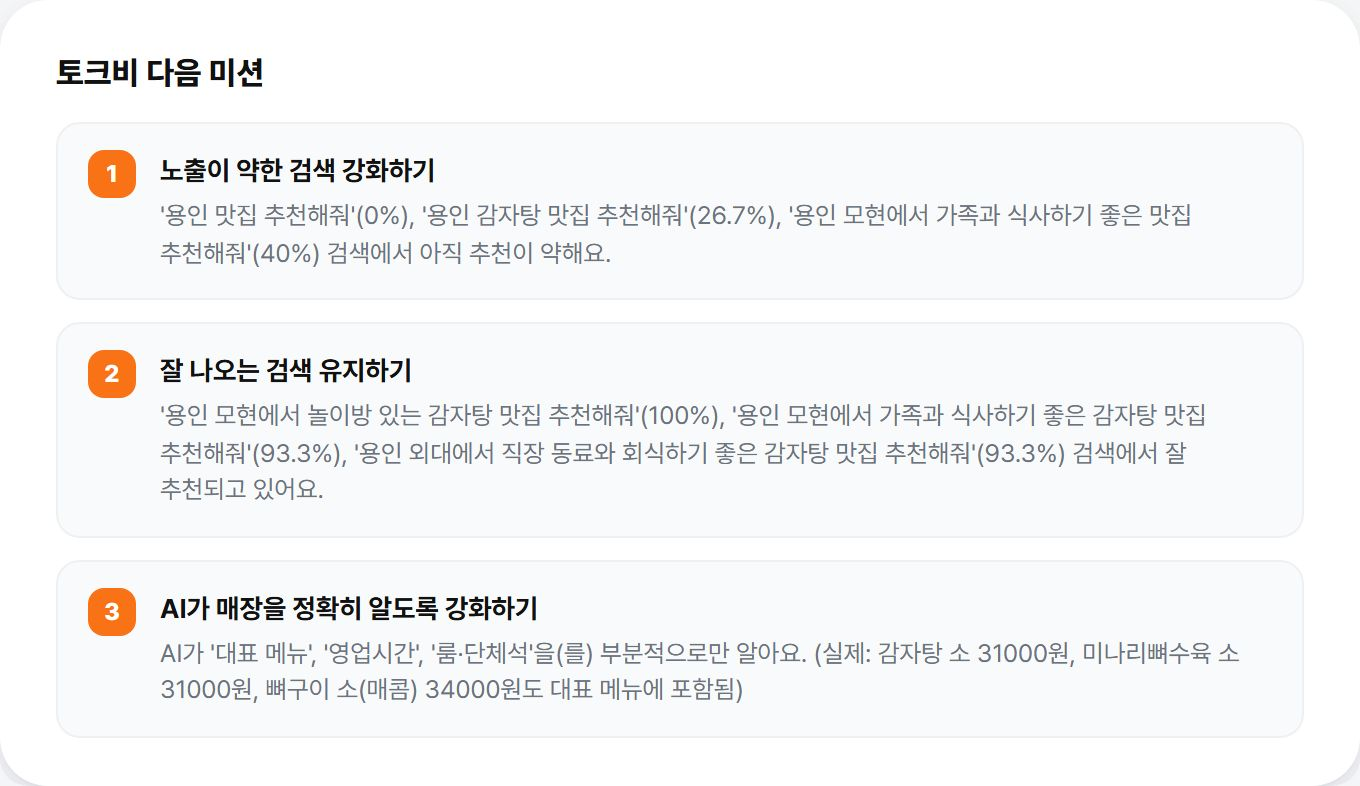
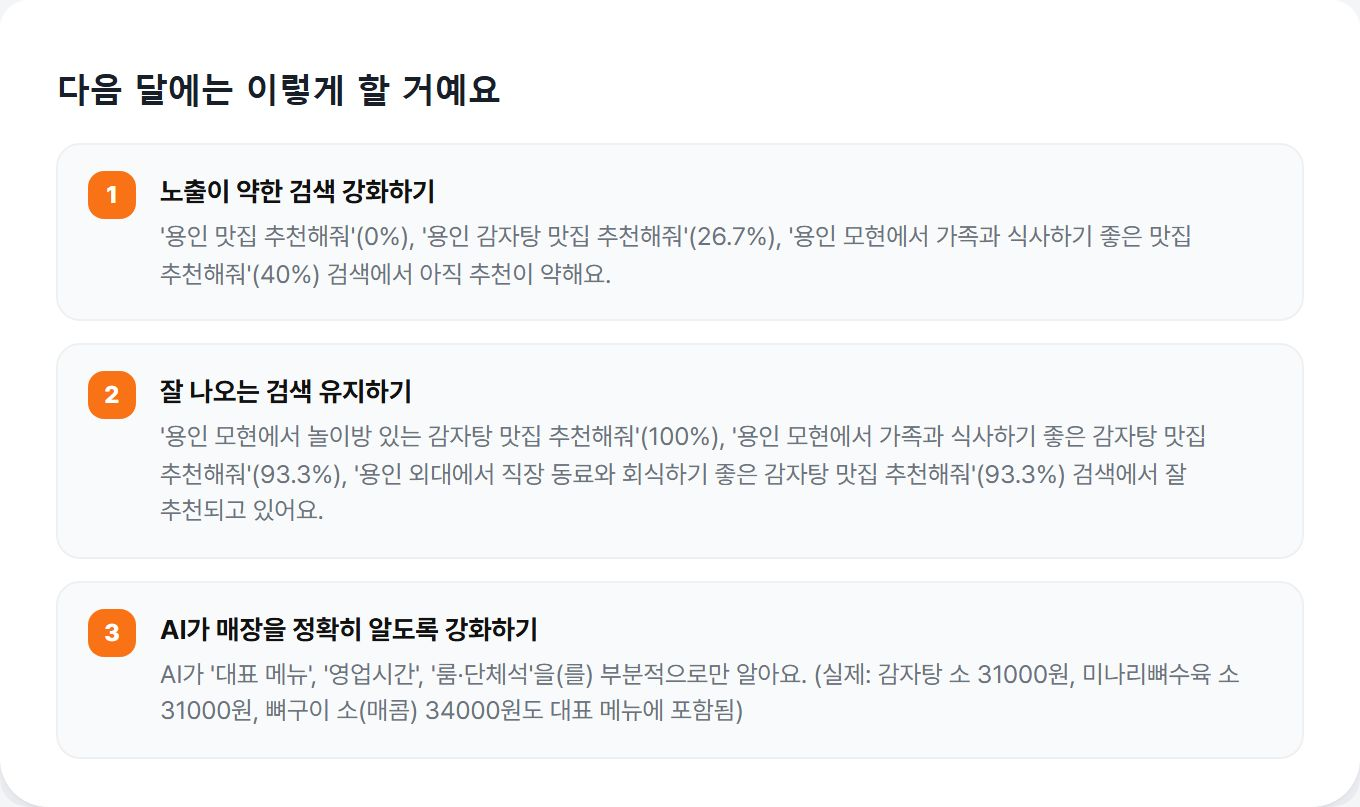
feat(랜딩): 후기 섹션을 한 장씩 넘기는 슬라이드(화살표·1/8)로 줄임 · 리포트 '다음 미션' → '다음 달 계획'(탭)·'다음 달에는 이렇게 할 거예요'(캡처 제목)

diff --git a/index.html b/index.html
@@ -252,6 +252,17 @@ mark{background:#FFE58A;color:#191F28;font-weight:800;border-radius:4px;padding:
 .rv-top{margin:28px 0 0;padding:0}
 .rv-top blockquote{margin:0;font-size:clamp(20px,2.4vw,26px);font-weight:800;line-height:1.55}
 .rv-top figcaption{margin-top:12px;font-size:14px;color:#B0B8C1}
+.rs-wrap{margin-top:28px;min-height:300px}
+.rs{display:grid;grid-template-columns:minmax(0,0.9fr) minmax(0,1.1fr);gap:28px;align-items:center;margin:0}
+.rs[hidden]{display:none}
+.rs .rv-img{margin:0;border-radius:18px}
+.rs-noimg{grid-template-columns:1fr;max-width:820px}
+.rs blockquote{margin:0;font-size:clamp(18px,2.2vw,24px);font-weight:800;line-height:1.55}
+.rs figcaption{margin-top:12px;font-size:14px;color:#B0B8C1}
+.rs-nav{display:flex;align-items:center;gap:14px;margin-top:22px}
+.rs-arr{width:44px;height:44px;border:1px solid rgba(255,255,255,.25);border-radius:50%;background:transparent;color:#fff;font-size:22px;line-height:1;cursor:pointer}
+.rs-arr:hover{background:rgba(255,255,255,.1)}
+.rs-count{font-size:14px;color:#B0B8C1;min-width:44px;text-align:center}
 .rv-img{display:block;width:100%;height:auto;aspect-ratio:16/10;object-fit:cover;border-radius:12px;margin-bottom:14px}
 .rv-top-ph{display:grid;grid-template-columns:minmax(0,0.9fr) minmax(0,1.1fr);gap:28px;align-items:center}
 .rv-top-ph .rv-img{margin:0;border-radius:18px}
@@ -388,7 +399,7 @@ mark{background:#FFE58A;color:#191F28;font-weight:800;border-radius:4px;padding:
 .foot a{display:inline-block;padding:6px 0;text-decoration:underline;text-underline-offset:2px}
 @media (max-width:640px){.float{display:none}}
 @media (max-width:900px){.float-qr{display:none}}
-@media (max-width:900px){.hero,.two,.three,.split{grid-template-columns:1fr !important}.hero{grid-template-areas:"top" "bottom" "fig";row-gap:20px;padding-top:52px}.hero-fig{margin-top:8px}.sc-grid{grid-template-columns:1fr 1fr}.flow{grid-template-columns:1fr}.rv-grid{grid-template-columns:1fr}.rv-top-ph{grid-template-columns:1fr;gap:16px}.cs{width:78vw;max-width:300px}}
+@media (max-width:900px){.hero,.two,.three,.split{grid-template-columns:1fr !important}.hero{grid-template-areas:"top" "bottom" "fig";row-gap:20px;padding-top:52px}.hero-fig{margin-top:8px}.sc-grid{grid-template-columns:1fr 1fr}.flow{grid-template-columns:1fr}.rv-grid{grid-template-columns:1fr}.rs{grid-template-columns:1fr;gap:16px}.cs{width:78vw;max-width:300px}}
 @media (max-width:640px){.nav,.hdr .kbtn{display:none}.hdr-in{height:56px;padding:0 16px}.wrap{padding:0 18px}.sec{padding:60px 0}.lead{font-size:16px}.card{padding:22px;border-radius:18px}.kbtn-lg{width:100%}.sc-grid{grid-template-columns:1fr;gap:10px}.sc{padding:16px 18px}.sc .meta{margin-bottom:8px}.sc-row{margin-top:6px}
 .sticky{display:flex;gap:8px;position:sticky;bottom:0;z-index:6;padding:10px 16px calc(10px + env(safe-area-inset-bottom));background:rgba(255,255,255,.96);border-top:1px solid var(--line);transition:transform .2s}
 .sticky .kbtn{flex:1}.sticky .price{display:inline-flex;align-items:center;justify-content:center;min-height:48px;padding:0 16px;border-radius:14px;border:1px solid var(--line);font-weight:700;font-size:15px;color:var(--ink)}
@@ -551,16 +562,17 @@ fbq('track', 'PageView');
 <div class="wrap">
 <h2 class="h2" style="color: #fff">사장님들이 직접 남긴 후기</h2>
 <p class="lead" style="color: #B0B8C1">남겨 주신 후기 8개를 그대로 옮겼어요.</p>
-<figure class="rv-top rv-top-ph"><img class="rv-img" src="/images/reviews/tamladam.jpg" alt="탐라담 영종도점 매장 사진" width="640" height="400" loading="lazy" decoding="async"><div><blockquote>“지피티에게 저희 동네 고기집이라던가 맛집을 물어보면 항상 다른 경쟁업체만 얘기했었는데, 토크비 이용 후에 지피티에서 추천받고 연락 하셨다고 12명 예약 하시는 분도 생기고 전화 문의도 많이 늘었어요! 종종 지피티 추천 받았다고 얘기해주시는분도 있어서 너무 기분좋아요ㅎㅎ”</blockquote><figcaption>탐라담 영종도점 · 백지혜 사장님</figcaption></div></figure>
-<div class="rv-grid">
-<figure class="rv"><img class="rv-img" src="/images/reviews/insaeng.jpg" alt="인생뼈다귀 본점 매장 사진" width="640" height="400" loading="lazy" decoding="async"><blockquote>“답변률도 좋아지고 바뀌는 시대에 맞게 발빠르게 준비할 수 있는 좋은 시스템인거 같아요 !!발빨라진느낌이라고 해야할까요?!! 앞으로도 기대가 됩니다 !! ㅎㅎㅎ”</blockquote><figcaption>인생뼈다귀 본점 · 이현민 사장님</figcaption></figure>
-<figure class="rv"><img class="rv-img" src="/images/reviews/ilsan-gejang.jpg" alt="일산게장집 매장 사진" width="640" height="400" loading="lazy" decoding="async"><blockquote>“ChatGpt를 활용한 마케팅도 기본적으로 수반되어야 한다 생각됩니다. 맛있는 음식을 만들기만 잘해서는 성공이 어려운 현재의 시대! 토크B가 많은 도움이 되고있습니다^^”</blockquote><figcaption>일산게장집 · 장동식 사장님</figcaption></figure>
-<figure class="rv"><img class="rv-img" src="/images/reviews/budae-inha.jpg" alt="부대찌개대사관 인하대역점 매장 사진" width="640" height="400" loading="lazy" decoding="async"><blockquote>“ChatGPT에서 저희 매장이 두번째로 추천되는 걸 확인했어요. 네이버로 두번째 추천될려면 엄청난 비용이 드는데~~ 토크비 서비스는 저렴한 금액으로 매장 홍보를 가능하게 해 주네요. ChatGPT 검색이 더 활성화 되면 고객 유입이 더 늘어날 것으로 기대됩니다.”</blockquote><figcaption>부대찌개대사관 인하대역점</figcaption></figure>
-<figure class="rv"><img class="rv-img" src="/images/reviews/budae-magok.jpg" alt="부대찌개대사관 마곡직영점 매장 사진" width="640" height="400" loading="lazy" decoding="async"><blockquote>“점차 답변률이 올라가는거 같아 기대가 큽니다ㅎㅎ”</blockquote><figcaption>부대찌개대사관 마곡직영점 · 전선용 대표</figcaption></figure>
-<figure class="rv"><img class="rv-img" src="/images/reviews/hansin.jpg" alt="한신우동 본점 매장 사진" width="640" height="400" loading="lazy" decoding="async"><blockquote>“파일럿을 진행하면서 변화된 수치 및 개선내용이 영업 또는 가맹모집에 어떤 영향을 미쳤는지에 대한 자료 지표를 쉽게 확인했으면 좋겠습니다.”</blockquote><figcaption>한신우동 본점 · 민치호 본부장</figcaption></figure>
-<figure class="rv"><blockquote>“경기가 안 좋아서 매출에 직접적인 효과는 보지 못한 것 같아요. 손님들이 검색을 ai를 통해서 많이 하는지 궁금해요. 맛집은 아직까지는 네이버 위주로 돌아가는지 그 비율에 따라서 기대효과를 가늠할 수 있을거 같아요.”</blockquote><figcaption>오공김밥 일산탄현점 · 조항돈 사장님</figcaption></figure>
-<figure class="rv"><blockquote>“아직 실감이 나지 않아요 ㅎㅎ”</blockquote><figcaption>푸드브리즈 법동점</figcaption></figure>
+<div class="rs-wrap" aria-live="polite">
+<figure class="rs" id="rs0" role="group" aria-roledescription="후기" aria-label="1 / 8"><img class="rv-img" src="/images/reviews/tamladam.jpg" alt="탐라담 영종도점 매장 사진" width="640" height="400" loading="lazy" decoding="async"><div><blockquote>“지피티에게 저희 동네 고기집이라던가 맛집을 물어보면 항상 다른 경쟁업체만 얘기했었는데, 토크비 이용 후에 지피티에서 추천받고 연락 하셨다고 12명 예약 하시는 분도 생기고 전화 문의도 많이 늘었어요! 종종 지피티 추천 받았다고 얘기해주시는분도 있어서 너무 기분좋아요ㅎㅎ”</blockquote><figcaption>탐라담 영종도점 · 백지혜 사장님</figcaption></div></figure>
+<figure class="rs" id="rs1" role="group" aria-roledescription="후기" aria-label="2 / 8" hidden><img class="rv-img" src="/images/reviews/insaeng.jpg" alt="인생뼈다귀 본점 매장 사진" width="640" height="400" loading="lazy" decoding="async"><div><blockquote>“답변률도 좋아지고 바뀌는 시대에 맞게 발빠르게 준비할 수 있는 좋은 시스템인거 같아요 !!발빨라진느낌이라고 해야할까요?!! 앞으로도 기대가 됩니다 !! ㅎㅎㅎ”</blockquote><figcaption>인생뼈다귀 본점 · 이현민 사장님</figcaption></div></figure>
+<figure class="rs" id="rs2" role="group" aria-roledescription="후기" aria-label="3 / 8" hidden><img class="rv-img" src="/images/reviews/ilsan-gejang.jpg" alt="일산게장집 매장 사진" width="640" height="400" loading="lazy" decoding="async"><div><blockquote>“ChatGpt를 활용한 마케팅도 기본적으로 수반되어야 한다 생각됩니다. 맛있는 음식을 만들기만 잘해서는 성공이 어려운 현재의 시대! 토크B가 많은 도움이 되고있습니다^^”</blockquote><figcaption>일산게장집 · 장동식 사장님</figcaption></div></figure>
+<figure class="rs" id="rs3" role="group" aria-roledescription="후기" aria-label="4 / 8" hidden><img class="rv-img" src="/images/reviews/budae-inha.jpg" alt="부대찌개대사관 인하대역점 매장 사진" width="640" height="400" loading="lazy" decoding="async"><div><blockquote>“ChatGPT에서 저희 매장이 두번째로 추천되는 걸 확인했어요. 네이버로 두번째 추천될려면 엄청난 비용이 드는데~~ 토크비 서비스는 저렴한 금액으로 매장 홍보를 가능하게 해 주네요. ChatGPT 검색이 더 활성화 되면 고객 유입이 더 늘어날 것으로 기대됩니다.”</blockquote><figcaption>부대찌개대사관 인하대역점</figcaption></div></figure>
+<figure class="rs" id="rs4" role="group" aria-roledescription="후기" aria-label="5 / 8" hidden><img class="rv-img" src="/images/reviews/budae-magok.jpg" alt="부대찌개대사관 마곡직영점 매장 사진" width="640" height="400" loading="lazy" decoding="async"><div><blockquote>“점차 답변률이 올라가는거 같아 기대가 큽니다ㅎㅎ”</blockquote><figcaption>부대찌개대사관 마곡직영점 · 전선용 대표</figcaption></div></figure>
+<figure class="rs" id="rs5" role="group" aria-roledescription="후기" aria-label="6 / 8" hidden><img class="rv-img" src="/images/reviews/hansin.jpg" alt="한신우동 본점 매장 사진" width="640" height="400" loading="lazy" decoding="async"><div><blockquote>“파일럿을 진행하면서 변화된 수치 및 개선내용이 영업 또는 가맹모집에 어떤 영향을 미쳤는지에 대한 자료 지표를 쉽게 확인했으면 좋겠습니다.”</blockquote><figcaption>한신우동 본점 · 민치호 본부장</figcaption></div></figure>
+<figure class="rs rs-noimg" id="rs6" role="group" aria-roledescription="후기" aria-label="7 / 8" hidden><div><blockquote>“경기가 안 좋아서 매출에 직접적인 효과는 보지 못한 것 같아요. 손님들이 검색을 ai를 통해서 많이 하는지 궁금해요. 맛집은 아직까지는 네이버 위주로 돌아가는지 그 비율에 따라서 기대효과를 가늠할 수 있을거 같아요.”</blockquote><figcaption>오공김밥 일산탄현점 · 조항돈 사장님</figcaption></div></figure>
+<figure class="rs rs-noimg" id="rs7" role="group" aria-roledescription="후기" aria-label="8 / 8" hidden><div><blockquote>“아직 실감이 나지 않아요 ㅎㅎ”</blockquote><figcaption>푸드브리즈 법동점</figcaption></div></figure>
 </div>
+<div class="rs-nav"><button type="button" class="rs-arr" id="rsPrev" aria-label="이전 후기">‹</button><span class="rs-count tnum" id="rsCount">1 / 8</span><button type="button" class="rs-arr" id="rsNext" aria-label="다음 후기">›</button></div>
 </div>
 </section>
 
@@ -607,13 +619,13 @@ fbq('track', 'PageView');
 <div class="wrap">
 <h2 class="h2">매달 이런 리포트를 받아요</h2>
 <p class="lead">인생뼈다귀 본점이 받은 2026년 9월 실제 리포트예요. 다른 가게 이름은 가렸어요.</p>
-<div class="rp-tabs" role="tablist" aria-label="리포트 쪽 고르기"><button type="button" role="tab" id="rt0" aria-controls="rv0" aria-selected="true">핵심 요약</button><button type="button" role="tab" id="rt1" aria-controls="rv1" aria-selected="false">추천률 추이</button><button type="button" role="tab" id="rt2" aria-controls="rv2" aria-selected="false">AI가 소개하는 방식</button><button type="button" role="tab" id="rt3" aria-controls="rv3" aria-selected="false">경쟁 매장 비교</button><button type="button" role="tab" id="rt4" aria-controls="rv4" aria-selected="false">다음 미션</button></div>
+<div class="rp-tabs" role="tablist" aria-label="리포트 쪽 고르기"><button type="button" role="tab" id="rt0" aria-controls="rv0" aria-selected="true">핵심 요약</button><button type="button" role="tab" id="rt1" aria-controls="rv1" aria-selected="false">추천률 추이</button><button type="button" role="tab" id="rt2" aria-controls="rv2" aria-selected="false">AI가 소개하는 방식</button><button type="button" role="tab" id="rt3" aria-controls="rv3" aria-selected="false">경쟁 매장 비교</button><button type="button" role="tab" id="rt4" aria-controls="rv4" aria-selected="false">다음 달 계획</button></div>
 <div class="rp-views">
 <button type="button" class="rp-shot" id="rv0" role="tabpanel" aria-labelledby="rt0" data-src="/images/report/p1.jpg" data-alt="월간 리포트 샘플 · 핵심 요약"><img src="/images/report/p1.jpg" alt="월간 리포트 샘플 · 핵심 요약" width="1360" height="776" loading="lazy" decoding="async"></button>
 <button type="button" class="rp-shot" id="rv1" role="tabpanel" aria-labelledby="rt1" data-src="/images/report/p2.jpg" data-alt="월간 리포트 샘플 · 추천률 추이" hidden><img src="/images/report/p2.jpg" alt="월간 리포트 샘플 · 추천률 추이" width="1360" height="720" loading="lazy" decoding="async"></button>
 <button type="button" class="rp-shot" id="rv2" role="tabpanel" aria-labelledby="rt2" data-src="/images/report/p3.jpg" data-alt="월간 리포트 샘플 · AI가 소개하는 방식" hidden><img src="/images/report/p3.jpg" alt="월간 리포트 샘플 · AI가 소개하는 방식" width="1360" height="1230" loading="lazy" decoding="async"></button>
 <button type="button" class="rp-shot" id="rv3" role="tabpanel" aria-labelledby="rt3" data-src="/images/report/p6.jpg" data-alt="월간 리포트 샘플 · 경쟁 매장 비교" hidden><img src="/images/report/p6.jpg" alt="월간 리포트 샘플 · 경쟁 매장 비교" width="1360" height="548" loading="lazy" decoding="async"></button>
-<button type="button" class="rp-shot" id="rv4" role="tabpanel" aria-labelledby="rt4" data-src="/images/report/p7.jpg" data-alt="월간 리포트 샘플 · 다음 미션" hidden><img src="/images/report/p7.jpg" alt="월간 리포트 샘플 · 다음 미션" width="1360" height="786" loading="lazy" decoding="async"></button>
+<button type="button" class="rp-shot" id="rv4" role="tabpanel" aria-labelledby="rt4" data-src="/images/report/p7.jpg?v=2" data-alt="월간 리포트 샘플 · 다음 달 계획" hidden><img src="/images/report/p7.jpg?v=2" alt="월간 리포트 샘플 · 다음 달 계획" width="1360" height="807" loading="lazy" decoding="async"></button>
 </div>
 </div>
 </section>
@@ -804,6 +816,16 @@ fbq('track', 'PageView');
   tabs.forEach(function(b, k){ b.addEventListener("click", function(){
     tabs.forEach(function(x, j){ x.setAttribute("aria-selected", j === k ? "true" : "false"); document.getElementById("rv" + j).hidden = j !== k; });
   }); });
+})();
+</script>
+<script>
+// 후기 넘김 · 화살표로 한 장씩
+(function(){
+  var sl = document.querySelectorAll(".rs"), cur = 0, cnt = document.getElementById("rsCount");
+  if (!sl.length) return;
+  function show(n){ cur = (n + sl.length) % sl.length; sl.forEach(function(x, k){ x.hidden = k !== cur; }); if (cnt) cnt.textContent = (cur + 1) + " / " + sl.length; }
+  document.getElementById("rsPrev").addEventListener("click", function(){ show(cur - 1); });
+  document.getElementById("rsNext").addEventListener("click", function(){ show(cur + 1); });
 })();
 </script>
 <script src="/track.js" data-home="1" defer></script>

diff --git a/index.template.html b/index.template.html
@@ -252,6 +252,17 @@ mark{background:#FFE58A;color:#191F28;font-weight:800;border-radius:4px;padding:
 .rv-top{margin:28px 0 0;padding:0}
 .rv-top blockquote{margin:0;font-size:clamp(20px,2.4vw,26px);font-weight:800;line-height:1.55}
 .rv-top figcaption{margin-top:12px;font-size:14px;color:#B0B8C1}
+.rs-wrap{margin-top:28px;min-height:300px}
+.rs{display:grid;grid-template-columns:minmax(0,0.9fr) minmax(0,1.1fr);gap:28px;align-items:center;margin:0}
+.rs[hidden]{display:none}
+.rs .rv-img{margin:0;border-radius:18px}
+.rs-noimg{grid-template-columns:1fr;max-width:820px}
+.rs blockquote{margin:0;font-size:clamp(18px,2.2vw,24px);font-weight:800;line-height:1.55}
+.rs figcaption{margin-top:12px;font-size:14px;color:#B0B8C1}
+.rs-nav{display:flex;align-items:center;gap:14px;margin-top:22px}
+.rs-arr{width:44px;height:44px;border:1px solid rgba(255,255,255,.25);border-radius:50%;background:transparent;color:#fff;font-size:22px;line-height:1;cursor:pointer}
+.rs-arr:hover{background:rgba(255,255,255,.1)}
+.rs-count{font-size:14px;color:#B0B8C1;min-width:44px;text-align:center}
 .rv-img{display:block;width:100%;height:auto;aspect-ratio:16/10;object-fit:cover;border-radius:12px;margin-bottom:14px}
 .rv-top-ph{display:grid;grid-template-columns:minmax(0,0.9fr) minmax(0,1.1fr);gap:28px;align-items:center}
 .rv-top-ph .rv-img{margin:0;border-radius:18px}
@@ -388,7 +399,7 @@ mark{background:#FFE58A;color:#191F28;font-weight:800;border-radius:4px;padding:
 .foot a{display:inline-block;padding:6px 0;text-decoration:underline;text-underline-offset:2px}
 @media (max-width:640px){.float{display:none}}
 @media (max-width:900px){.float-qr{display:none}}
-@media (max-width:900px){.hero,.two,.three,.split{grid-template-columns:1fr !important}.hero{grid-template-areas:"top" "bottom" "fig";row-gap:20px;padding-top:52px}.hero-fig{margin-top:8px}.sc-grid{grid-template-columns:1fr 1fr}.flow{grid-template-columns:1fr}.rv-grid{grid-template-columns:1fr}.rv-top-ph{grid-template-columns:1fr;gap:16px}.cs{width:78vw;max-width:300px}}
+@media (max-width:900px){.hero,.two,.three,.split{grid-template-columns:1fr !important}.hero{grid-template-areas:"top" "bottom" "fig";row-gap:20px;padding-top:52px}.hero-fig{margin-top:8px}.sc-grid{grid-template-columns:1fr 1fr}.flow{grid-template-columns:1fr}.rv-grid{grid-template-columns:1fr}.rs{grid-template-columns:1fr;gap:16px}.cs{width:78vw;max-width:300px}}
 @media (max-width:640px){.nav,.hdr .kbtn{display:none}.hdr-in{height:56px;padding:0 16px}.wrap{padding:0 18px}.sec{padding:60px 0}.lead{font-size:16px}.card{padding:22px;border-radius:18px}.kbtn-lg{width:100%}.sc-grid{grid-template-columns:1fr;gap:10px}.sc{padding:16px 18px}.sc .meta{margin-bottom:8px}.sc-row{margin-top:6px}
 .sticky{display:flex;gap:8px;position:sticky;bottom:0;z-index:6;padding:10px 16px calc(10px + env(safe-area-inset-bottom));background:rgba(255,255,255,.96);border-top:1px solid var(--line);transition:transform .2s}
 .sticky .kbtn{flex:1}.sticky .price{display:inline-flex;align-items:center;justify-content:center;min-height:48px;padding:0 16px;border-radius:14px;border:1px solid var(--line);font-weight:700;font-size:15px;color:var(--ink)}
@@ -551,16 +562,17 @@ fbq('track', 'PageView');
 <div class="wrap">
 <h2 class="h2" style="color: #fff">사장님들이 직접 남긴 후기</h2>
 <p class="lead" style="color: #B0B8C1">남겨 주신 후기 8개를 그대로 옮겼어요.</p>
-<figure class="rv-top rv-top-ph"><img class="rv-img" src="/images/reviews/tamladam.jpg" alt="탐라담 영종도점 매장 사진" width="640" height="400" loading="lazy" decoding="async"><div><blockquote>“지피티에게 저희 동네 고기집이라던가 맛집을 물어보면 항상 다른 경쟁업체만 얘기했었는데, 토크비 이용 후에 지피티에서 추천받고 연락 하셨다고 12명 예약 하시는 분도 생기고 전화 문의도 많이 늘었어요! 종종 지피티 추천 받았다고 얘기해주시는분도 있어서 너무 기분좋아요ㅎㅎ”</blockquote><figcaption>탐라담 영종도점 · 백지혜 사장님</figcaption></div></figure>
-<div class="rv-grid">
-<figure class="rv"><img class="rv-img" src="/images/reviews/insaeng.jpg" alt="인생뼈다귀 본점 매장 사진" width="640" height="400" loading="lazy" decoding="async"><blockquote>“답변률도 좋아지고 바뀌는 시대에 맞게 발빠르게 준비할 수 있는 좋은 시스템인거 같아요 !!발빨라진느낌이라고 해야할까요?!! 앞으로도 기대가 됩니다 !! ㅎㅎㅎ”</blockquote><figcaption>인생뼈다귀 본점 · 이현민 사장님</figcaption></figure>
-<figure class="rv"><img class="rv-img" src="/images/reviews/ilsan-gejang.jpg" alt="일산게장집 매장 사진" width="640" height="400" loading="lazy" decoding="async"><blockquote>“ChatGpt를 활용한 마케팅도 기본적으로 수반되어야 한다 생각됩니다. 맛있는 음식을 만들기만 잘해서는 성공이 어려운 현재의 시대! 토크B가 많은 도움이 되고있습니다^^”</blockquote><figcaption>일산게장집 · 장동식 사장님</figcaption></figure>
-<figure class="rv"><img class="rv-img" src="/images/reviews/budae-inha.jpg" alt="부대찌개대사관 인하대역점 매장 사진" width="640" height="400" loading="lazy" decoding="async"><blockquote>“ChatGPT에서 저희 매장이 두번째로 추천되는 걸 확인했어요. 네이버로 두번째 추천될려면 엄청난 비용이 드는데~~ 토크비 서비스는 저렴한 금액으로 매장 홍보를 가능하게 해 주네요. ChatGPT 검색이 더 활성화 되면 고객 유입이 더 늘어날 것으로 기대됩니다.”</blockquote><figcaption>부대찌개대사관 인하대역점</figcaption></figure>
-<figure class="rv"><img class="rv-img" src="/images/reviews/budae-magok.jpg" alt="부대찌개대사관 마곡직영점 매장 사진" width="640" height="400" loading="lazy" decoding="async"><blockquote>“점차 답변률이 올라가는거 같아 기대가 큽니다ㅎㅎ”</blockquote><figcaption>부대찌개대사관 마곡직영점 · 전선용 대표</figcaption></figure>
-<figure class="rv"><img class="rv-img" src="/images/reviews/hansin.jpg" alt="한신우동 본점 매장 사진" width="640" height="400" loading="lazy" decoding="async"><blockquote>“파일럿을 진행하면서 변화된 수치 및 개선내용이 영업 또는 가맹모집에 어떤 영향을 미쳤는지에 대한 자료 지표를 쉽게 확인했으면 좋겠습니다.”</blockquote><figcaption>한신우동 본점 · 민치호 본부장</figcaption></figure>
-<figure class="rv"><blockquote>“경기가 안 좋아서 매출에 직접적인 효과는 보지 못한 것 같아요. 손님들이 검색을 ai를 통해서 많이 하는지 궁금해요. 맛집은 아직까지는 네이버 위주로 돌아가는지 그 비율에 따라서 기대효과를 가늠할 수 있을거 같아요.”</blockquote><figcaption>오공김밥 일산탄현점 · 조항돈 사장님</figcaption></figure>
-<figure class="rv"><blockquote>“아직 실감이 나지 않아요 ㅎㅎ”</blockquote><figcaption>푸드브리즈 법동점</figcaption></figure>
+<div class="rs-wrap" aria-live="polite">
+<figure class="rs" id="rs0" role="group" aria-roledescription="후기" aria-label="1 / 8"><img class="rv-img" src="/images/reviews/tamladam.jpg" alt="탐라담 영종도점 매장 사진" width="640" height="400" loading="lazy" decoding="async"><div><blockquote>“지피티에게 저희 동네 고기집이라던가 맛집을 물어보면 항상 다른 경쟁업체만 얘기했었는데, 토크비 이용 후에 지피티에서 추천받고 연락 하셨다고 12명 예약 하시는 분도 생기고 전화 문의도 많이 늘었어요! 종종 지피티 추천 받았다고 얘기해주시는분도 있어서 너무 기분좋아요ㅎㅎ”</blockquote><figcaption>탐라담 영종도점 · 백지혜 사장님</figcaption></div></figure>
+<figure class="rs" id="rs1" role="group" aria-roledescription="후기" aria-label="2 / 8" hidden><img class="rv-img" src="/images/reviews/insaeng.jpg" alt="인생뼈다귀 본점 매장 사진" width="640" height="400" loading="lazy" decoding="async"><div><blockquote>“답변률도 좋아지고 바뀌는 시대에 맞게 발빠르게 준비할 수 있는 좋은 시스템인거 같아요 !!발빨라진느낌이라고 해야할까요?!! 앞으로도 기대가 됩니다 !! ㅎㅎㅎ”</blockquote><figcaption>인생뼈다귀 본점 · 이현민 사장님</figcaption></div></figure>
+<figure class="rs" id="rs2" role="group" aria-roledescription="후기" aria-label="3 / 8" hidden><img class="rv-img" src="/images/reviews/ilsan-gejang.jpg" alt="일산게장집 매장 사진" width="640" height="400" loading="lazy" decoding="async"><div><blockquote>“ChatGpt를 활용한 마케팅도 기본적으로 수반되어야 한다 생각됩니다. 맛있는 음식을 만들기만 잘해서는 성공이 어려운 현재의 시대! 토크B가 많은 도움이 되고있습니다^^”</blockquote><figcaption>일산게장집 · 장동식 사장님</figcaption></div></figure>
+<figure class="rs" id="rs3" role="group" aria-roledescription="후기" aria-label="4 / 8" hidden><img class="rv-img" src="/images/reviews/budae-inha.jpg" alt="부대찌개대사관 인하대역점 매장 사진" width="640" height="400" loading="lazy" decoding="async"><div><blockquote>“ChatGPT에서 저희 매장이 두번째로 추천되는 걸 확인했어요. 네이버로 두번째 추천될려면 엄청난 비용이 드는데~~ 토크비 서비스는 저렴한 금액으로 매장 홍보를 가능하게 해 주네요. ChatGPT 검색이 더 활성화 되면 고객 유입이 더 늘어날 것으로 기대됩니다.”</blockquote><figcaption>부대찌개대사관 인하대역점</figcaption></div></figure>
+<figure class="rs" id="rs4" role="group" aria-roledescription="후기" aria-label="5 / 8" hidden><img class="rv-img" src="/images/reviews/budae-magok.jpg" alt="부대찌개대사관 마곡직영점 매장 사진" width="640" height="400" loading="lazy" decoding="async"><div><blockquote>“점차 답변률이 올라가는거 같아 기대가 큽니다ㅎㅎ”</blockquote><figcaption>부대찌개대사관 마곡직영점 · 전선용 대표</figcaption></div></figure>
+<figure class="rs" id="rs5" role="group" aria-roledescription="후기" aria-label="6 / 8" hidden><img class="rv-img" src="/images/reviews/hansin.jpg" alt="한신우동 본점 매장 사진" width="640" height="400" loading="lazy" decoding="async"><div><blockquote>“파일럿을 진행하면서 변화된 수치 및 개선내용이 영업 또는 가맹모집에 어떤 영향을 미쳤는지에 대한 자료 지표를 쉽게 확인했으면 좋겠습니다.”</blockquote><figcaption>한신우동 본점 · 민치호 본부장</figcaption></div></figure>
+<figure class="rs rs-noimg" id="rs6" role="group" aria-roledescription="후기" aria-label="7 / 8" hidden><div><blockquote>“경기가 안 좋아서 매출에 직접적인 효과는 보지 못한 것 같아요. 손님들이 검색을 ai를 통해서 많이 하는지 궁금해요. 맛집은 아직까지는 네이버 위주로 돌아가는지 그 비율에 따라서 기대효과를 가늠할 수 있을거 같아요.”</blockquote><figcaption>오공김밥 일산탄현점 · 조항돈 사장님</figcaption></div></figure>
+<figure class="rs rs-noimg" id="rs7" role="group" aria-roledescription="후기" aria-label="8 / 8" hidden><div><blockquote>“아직 실감이 나지 않아요 ㅎㅎ”</blockquote><figcaption>푸드브리즈 법동점</figcaption></div></figure>
 </div>
+<div class="rs-nav"><button type="button" class="rs-arr" id="rsPrev" aria-label="이전 후기">‹</button><span class="rs-count tnum" id="rsCount">1 / 8</span><button type="button" class="rs-arr" id="rsNext" aria-label="다음 후기">›</button></div>
 </div>
 </section>
 
@@ -607,13 +619,13 @@ fbq('track', 'PageView');
 <div class="wrap">
 <h2 class="h2">매달 이런 리포트를 받아요</h2>
 <p class="lead">인생뼈다귀 본점이 받은 2026년 9월 실제 리포트예요. 다른 가게 이름은 가렸어요.</p>
-<div class="rp-tabs" role="tablist" aria-label="리포트 쪽 고르기"><button type="button" role="tab" id="rt0" aria-controls="rv0" aria-selected="true">핵심 요약</button><button type="button" role="tab" id="rt1" aria-controls="rv1" aria-selected="false">추천률 추이</button><button type="button" role="tab" id="rt2" aria-controls="rv2" aria-selected="false">AI가 소개하는 방식</button><button type="button" role="tab" id="rt3" aria-controls="rv3" aria-selected="false">경쟁 매장 비교</button><button type="button" role="tab" id="rt4" aria-controls="rv4" aria-selected="false">다음 미션</button></div>
+<div class="rp-tabs" role="tablist" aria-label="리포트 쪽 고르기"><button type="button" role="tab" id="rt0" aria-controls="rv0" aria-selected="true">핵심 요약</button><button type="button" role="tab" id="rt1" aria-controls="rv1" aria-selected="false">추천률 추이</button><button type="button" role="tab" id="rt2" aria-controls="rv2" aria-selected="false">AI가 소개하는 방식</button><button type="button" role="tab" id="rt3" aria-controls="rv3" aria-selected="false">경쟁 매장 비교</button><button type="button" role="tab" id="rt4" aria-controls="rv4" aria-selected="false">다음 달 계획</button></div>
 <div class="rp-views">
 <button type="button" class="rp-shot" id="rv0" role="tabpanel" aria-labelledby="rt0" data-src="/images/report/p1.jpg" data-alt="월간 리포트 샘플 · 핵심 요약"><img src="/images/report/p1.jpg" alt="월간 리포트 샘플 · 핵심 요약" width="1360" height="776" loading="lazy" decoding="async"></button>
 <button type="button" class="rp-shot" id="rv1" role="tabpanel" aria-labelledby="rt1" data-src="/images/report/p2.jpg" data-alt="월간 리포트 샘플 · 추천률 추이" hidden><img src="/images/report/p2.jpg" alt="월간 리포트 샘플 · 추천률 추이" width="1360" height="720" loading="lazy" decoding="async"></button>
 <button type="button" class="rp-shot" id="rv2" role="tabpanel" aria-labelledby="rt2" data-src="/images/report/p3.jpg" data-alt="월간 리포트 샘플 · AI가 소개하는 방식" hidden><img src="/images/report/p3.jpg" alt="월간 리포트 샘플 · AI가 소개하는 방식" width="1360" height="1230" loading="lazy" decoding="async"></button>
 <button type="button" class="rp-shot" id="rv3" role="tabpanel" aria-labelledby="rt3" data-src="/images/report/p6.jpg" data-alt="월간 리포트 샘플 · 경쟁 매장 비교" hidden><img src="/images/report/p6.jpg" alt="월간 리포트 샘플 · 경쟁 매장 비교" width="1360" height="548" loading="lazy" decoding="async"></button>
-<button type="button" class="rp-shot" id="rv4" role="tabpanel" aria-labelledby="rt4" data-src="/images/report/p7.jpg" data-alt="월간 리포트 샘플 · 다음 미션" hidden><img src="/images/report/p7.jpg" alt="월간 리포트 샘플 · 다음 미션" width="1360" height="786" loading="lazy" decoding="async"></button>
+<button type="button" class="rp-shot" id="rv4" role="tabpanel" aria-labelledby="rt4" data-src="/images/report/p7.jpg?v=2" data-alt="월간 리포트 샘플 · 다음 달 계획" hidden><img src="/images/report/p7.jpg?v=2" alt="월간 리포트 샘플 · 다음 달 계획" width="1360" height="807" loading="lazy" decoding="async"></button>
 </div>
 </div>
 </section>
@@ -804,6 +816,16 @@ fbq('track', 'PageView');
   tabs.forEach(function(b, k){ b.addEventListener("click", function(){
     tabs.forEach(function(x, j){ x.setAttribute("aria-selected", j === k ? "true" : "false"); document.getElementById("rv" + j).hidden = j !== k; });
   }); });
+})();
+</script>
+<script>
+// 후기 넘김 · 화살표로 한 장씩
+(function(){
+  var sl = document.querySelectorAll(".rs"), cur = 0, cnt = document.getElementById("rsCount");
+  if (!sl.length) return;
+  function show(n){ cur = (n + sl.length) % sl.length; sl.forEach(function(x, k){ x.hidden = k !== cur; }); if (cnt) cnt.textContent = (cur + 1) + " / " + sl.length; }
+  document.getElementById("rsPrev").addEventListener("click", function(){ show(cur - 1); });
+  document.getElementById("rsNext").addEventListener("click", function(){ show(cur + 1); });
 })();
 </script>
 <script src="/track.js" data-home="1" defer></script>

diff --git a/gpt-plan/index.html b/gpt-plan/index.html
@@ -325,6 +325,17 @@ mark{background:#FFE58A;color:#191F28;font-weight:800;border-radius:4px;padding:
 .rv-top{margin:28px 0 0;padding:0}
 .rv-top blockquote{margin:0;font-size:clamp(20px,2.4vw,26px);font-weight:800;line-height:1.55}
 .rv-top figcaption{margin-top:12px;font-size:14px;color:#B0B8C1}
+.rs-wrap{margin-top:28px;min-height:300px}
+.rs{display:grid;grid-template-columns:minmax(0,0.9fr) minmax(0,1.1fr);gap:28px;align-items:center;margin:0}
+.rs[hidden]{display:none}
+.rs .rv-img{margin:0;border-radius:18px}
+.rs-noimg{grid-template-columns:1fr;max-width:820px}
+.rs blockquote{margin:0;font-size:clamp(18px,2.2vw,24px);font-weight:800;line-height:1.55}
+.rs figcaption{margin-top:12px;font-size:14px;color:#B0B8C1}
+.rs-nav{display:flex;align-items:center;gap:14px;margin-top:22px}
+.rs-arr{width:44px;height:44px;border:1px solid rgba(255,255,255,.25);border-radius:50%;background:transparent;color:#fff;font-size:22px;line-height:1;cursor:pointer}
+.rs-arr:hover{background:rgba(255,255,255,.1)}
+.rs-count{font-size:14px;color:#B0B8C1;min-width:44px;text-align:center}
 .rv-img{display:block;width:100%;height:auto;aspect-ratio:16/10;object-fit:cover;border-radius:12px;margin-bottom:14px}
 .rv-top-ph{display:grid;grid-template-columns:minmax(0,0.9fr) minmax(0,1.1fr);gap:28px;align-items:center}
 .rv-top-ph .rv-img{margin:0;border-radius:18px}
@@ -461,7 +472,7 @@ mark{background:#FFE58A;color:#191F28;font-weight:800;border-radius:4px;padding:
 .foot a{display:inline-block;padding:6px 0;text-decoration:underline;text-underline-offset:2px}
 @media (max-width:640px){.float{display:none}}
 @media (max-width:900px){.float-qr{display:none}}
-@media (max-width:900px){.hero,.two,.three,.split{grid-template-columns:1fr !important}.hero{grid-template-areas:"top" "bottom" "fig";row-gap:20px;padding-top:52px}.hero-fig{margin-top:8px}.sc-grid{grid-template-columns:1fr 1fr}.flow{grid-template-columns:1fr}.rv-grid{grid-template-columns:1fr}.rv-top-ph{grid-template-columns:1fr;gap:16px}.cs{width:78vw;max-width:300px}}
+@media (max-width:900px){.hero,.two,.three,.split{grid-template-columns:1fr !important}.hero{grid-template-areas:"top" "bottom" "fig";row-gap:20px;padding-top:52px}.hero-fig{margin-top:8px}.sc-grid{grid-template-columns:1fr 1fr}.flow{grid-template-columns:1fr}.rv-grid{grid-template-columns:1fr}.rs{grid-template-columns:1fr;gap:16px}.cs{width:78vw;max-width:300px}}
 @media (max-width:640px){.nav,.hdr .kbtn{display:none}.hdr-in{height:56px;padding:0 16px}.wrap{padding:0 18px}.sec{padding:60px 0}.lead{font-size:16px}.card{padding:22px;border-radius:18px}.kbtn-lg{width:100%}.sc-grid{grid-template-columns:1fr;gap:10px}.sc{padding:16px 18px}.sc .meta{margin-bottom:8px}.sc-row{margin-top:6px}
 .sticky{display:flex;gap:8px;position:sticky;bottom:0;z-index:6;padding:10px 16px calc(10px + env(safe-area-inset-bottom));background:rgba(255,255,255,.96);border-top:1px solid var(--line);transition:transform .2s}
 .sticky .kbtn{flex:1}.sticky .price{display:inline-flex;align-items:center;justify-content:center;min-height:48px;padding:0 16px;border-radius:14px;border:1px solid var(--line);font-weight:700;font-size:15px;color:var(--ink)}
@@ -577,13 +588,13 @@ fbq('track', 'PageView');
 <div class="wrap">
 <h2 class="h2">매달 이런 리포트를 받아요</h2>
 <p class="lead">인생뼈다귀 본점이 받은 2026년 9월 실제 리포트예요. 다른 가게 이름은 가렸어요.</p>
-<div class="rp-tabs" role="tablist" aria-label="리포트 쪽 고르기"><button type="button" role="tab" id="rt0" aria-controls="rv0" aria-selected="true">핵심 요약</button><button type="button" role="tab" id="rt1" aria-controls="rv1" aria-selected="false">추천률 추이</button><button type="button" role="tab" id="rt2" aria-controls="rv2" aria-selected="false">AI가 소개하는 방식</button><button type="button" role="tab" id="rt3" aria-controls="rv3" aria-selected="false">경쟁 매장 비교</button><button type="button" role="tab" id="rt4" aria-controls="rv4" aria-selected="false">다음 미션</button></div>
+<div class="rp-tabs" role="tablist" aria-label="리포트 쪽 고르기"><button type="button" role="tab" id="rt0" aria-controls="rv0" aria-selected="true">핵심 요약</button><button type="button" role="tab" id="rt1" aria-controls="rv1" aria-selected="false">추천률 추이</button><button type="button" role="tab" id="rt2" aria-controls="rv2" aria-selected="false">AI가 소개하는 방식</button><button type="button" role="tab" id="rt3" aria-controls="rv3" aria-selected="false">경쟁 매장 비교</button><button type="button" role="tab" id="rt4" aria-controls="rv4" aria-selected="false">다음 달 계획</button></div>
 <div class="rp-views">
 <button type="button" class="rp-shot" id="rv0" role="tabpanel" aria-labelledby="rt0" data-src="/images/report/p1.jpg"><img src="/images/report/p1.jpg" alt="월간 리포트 샘플 · 핵심 요약" width="1360" height="776" loading="lazy" decoding="async"></button>
 <button type="button" class="rp-shot" id="rv1" role="tabpanel" aria-labelledby="rt1" data-src="/images/report/p2.jpg" hidden><img src="/images/report/p2.jpg" alt="월간 리포트 샘플 · 추천률 추이" width="1360" height="720" loading="lazy" decoding="async"></button>
 <button type="button" class="rp-shot" id="rv2" role="tabpanel" aria-labelledby="rt2" data-src="/images/report/p3.jpg" hidden><img src="/images/report/p3.jpg" alt="월간 리포트 샘플 · AI가 소개하는 방식" width="1360" height="1230" loading="lazy" decoding="async"></button>
 <button type="button" class="rp-shot" id="rv3" role="tabpanel" aria-labelledby="rt3" data-src="/images/report/p6.jpg" hidden><img src="/images/report/p6.jpg" alt="월간 리포트 샘플 · 경쟁 매장 비교" width="1360" height="548" loading="lazy" decoding="async"></button>
-<button type="button" class="rp-shot" id="rv4" role="tabpanel" aria-labelledby="rt4" data-src="/images/report/p7.jpg" hidden><img src="/images/report/p7.jpg" alt="월간 리포트 샘플 · 다음 미션" width="1360" height="786" loading="lazy" decoding="async"></button>
+<button type="button" class="rp-shot" id="rv4" role="tabpanel" aria-labelledby="rt4" data-src="/images/report/p7.jpg?v=2" hidden><img src="/images/report/p7.jpg?v=2" alt="월간 리포트 샘플 · 다음 달 계획" width="1360" height="807" loading="lazy" decoding="async"></button>
 </div>
 </div>
 <div class="wrap see" style="margin-top: 56px">

diff --git a/gpt-plan.template.html b/gpt-plan.template.html
@@ -379,13 +379,13 @@ fbq('track', 'PageView');
 <div class="wrap">
 <h2 class="h2">매달 이런 리포트를 받아요</h2>
 <p class="lead">인생뼈다귀 본점이 받은 2026년 9월 실제 리포트예요. 다른 가게 이름은 가렸어요.</p>
-<div class="rp-tabs" role="tablist" aria-label="리포트 쪽 고르기"><button type="button" role="tab" id="rt0" aria-controls="rv0" aria-selected="true">핵심 요약</button><button type="button" role="tab" id="rt1" aria-controls="rv1" aria-selected="false">추천률 추이</button><button type="button" role="tab" id="rt2" aria-controls="rv2" aria-selected="false">AI가 소개하는 방식</button><button type="button" role="tab" id="rt3" aria-controls="rv3" aria-selected="false">경쟁 매장 비교</button><button type="button" role="tab" id="rt4" aria-controls="rv4" aria-selected="false">다음 미션</button></div>
+<div class="rp-tabs" role="tablist" aria-label="리포트 쪽 고르기"><button type="button" role="tab" id="rt0" aria-controls="rv0" aria-selected="true">핵심 요약</button><button type="button" role="tab" id="rt1" aria-controls="rv1" aria-selected="false">추천률 추이</button><button type="button" role="tab" id="rt2" aria-controls="rv2" aria-selected="false">AI가 소개하는 방식</button><button type="button" role="tab" id="rt3" aria-controls="rv3" aria-selected="false">경쟁 매장 비교</button><button type="button" role="tab" id="rt4" aria-controls="rv4" aria-selected="false">다음 달 계획</button></div>
 <div class="rp-views">
 <button type="button" class="rp-shot" id="rv0" role="tabpanel" aria-labelledby="rt0" data-src="/images/report/p1.jpg"><img src="/images/report/p1.jpg" alt="월간 리포트 샘플 · 핵심 요약" width="1360" height="776" loading="lazy" decoding="async"></button>
 <button type="button" class="rp-shot" id="rv1" role="tabpanel" aria-labelledby="rt1" data-src="/images/report/p2.jpg" hidden><img src="/images/report/p2.jpg" alt="월간 리포트 샘플 · 추천률 추이" width="1360" height="720" loading="lazy" decoding="async"></button>
 <button type="button" class="rp-shot" id="rv2" role="tabpanel" aria-labelledby="rt2" data-src="/images/report/p3.jpg" hidden><img src="/images/report/p3.jpg" alt="월간 리포트 샘플 · AI가 소개하는 방식" width="1360" height="1230" loading="lazy" decoding="async"></button>
 <button type="button" class="rp-shot" id="rv3" role="tabpanel" aria-labelledby="rt3" data-src="/images/report/p6.jpg" hidden><img src="/images/report/p6.jpg" alt="월간 리포트 샘플 · 경쟁 매장 비교" width="1360" height="548" loading="lazy" decoding="async"></button>
-<button type="button" class="rp-shot" id="rv4" role="tabpanel" aria-labelledby="rt4" data-src="/images/report/p7.jpg" hidden><img src="/images/report/p7.jpg" alt="월간 리포트 샘플 · 다음 미션" width="1360" height="786" loading="lazy" decoding="async"></button>
+<button type="button" class="rp-shot" id="rv4" role="tabpanel" aria-labelledby="rt4" data-src="/images/report/p7.jpg?v=2" hidden><img src="/images/report/p7.jpg?v=2" alt="월간 리포트 샘플 · 다음 달 계획" width="1360" height="807" loading="lazy" decoding="async"></button>
 </div>
 </div>
 <div class="wrap see" style="margin-top: 56px">
